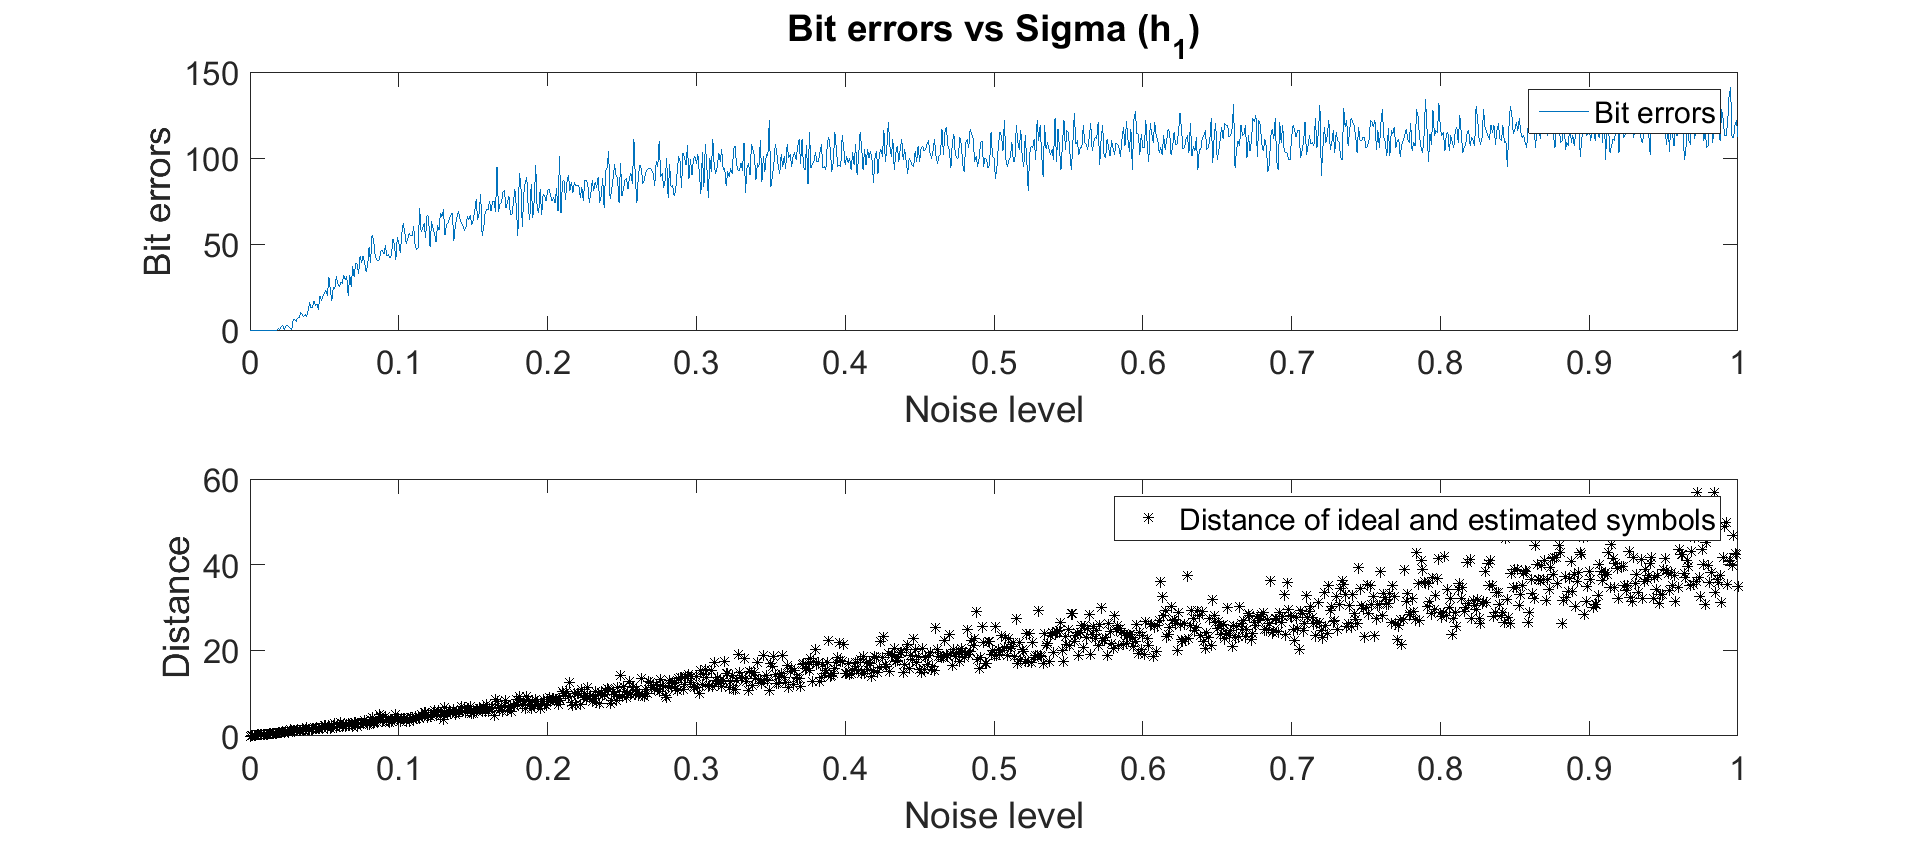
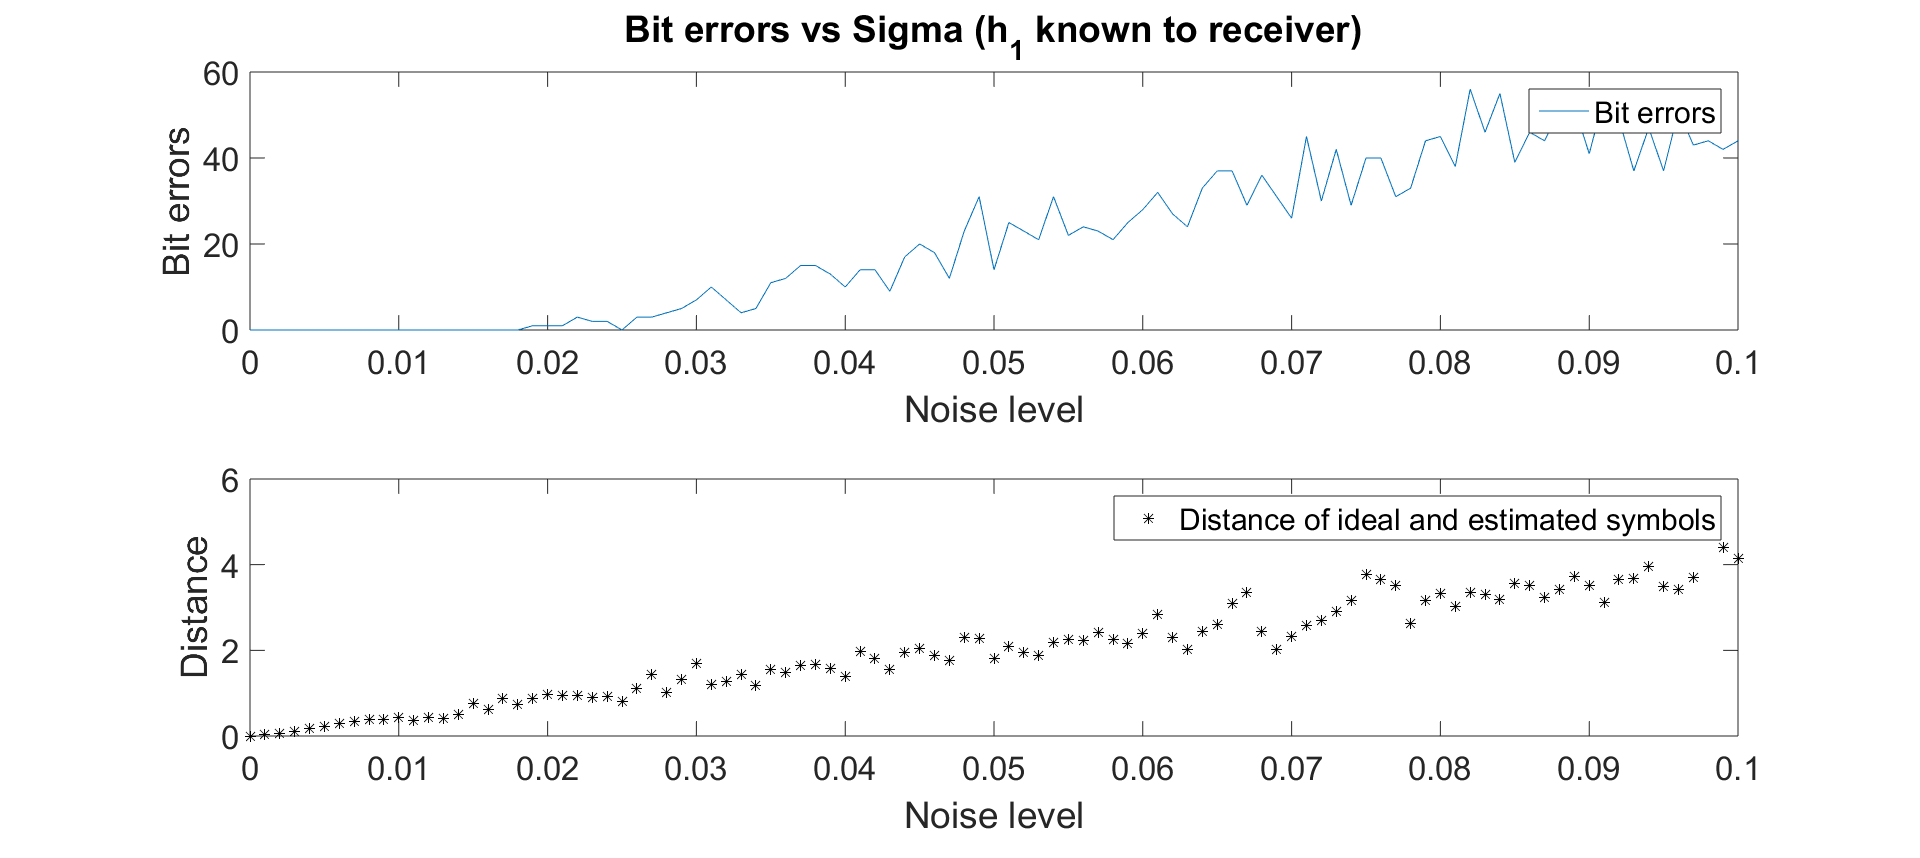
added a lot, pics, code etc

diff --git a/tester.m b/tester.m
@@ -7,21 +7,23 @@ s_maxTOT=zeros(1,1001);
 counter = 0;
 N=128;
 
+fall=1;
 sigma=0;
 
 %Test area
 
+% for sigma = 0:0.001:1;
 
 counter = counter +1; 
-fall=3;
+
 
 [z,z_p,bits,symbols]=transmitter(fall);
 
-[y_hat,y_hat_p,h,sigma2] = channel(z,z_p,2,sigma);
+[y_hat,y_hat_p,h,sigma2] = channel(z,z_p,1,sigma);
 
 [b_hat,s_hat] = receiver(y_hat,y_hat_p,h,fall);
 
-% s_max=max(abs(symbols-s_hat)); %This is a good measure, should be included 
+s_max=max(abs(symbols-s_hat)); %This is a good measure, should be included 
                                %the report imo 
 
 %scatterplot(s_hat)
@@ -32,26 +34,27 @@ for i=1:2*N
         BitErrors=BitErrors+1;
     end
 end
-%errorbits=abs(bits-b_hat)
+
 ErrorsPerSigma(counter) = BitErrors;
-%s_maxTOT(counter)=s_max;
+s_maxTOT(counter)=s_max;
+% end
 
-BitErrors
 
-%%
-sigma = 0:0.001:1;
+% sigma = 0:0.001:1;
 % subplot(2,1,1)
-plot(sigma,ErrorsPerSigma)
-legend('Bit errors')
-title('Bit errors vs Sigma (h_2)')
-xlabel('Noise level')
-ylabel('Bit errors')
-set(gca, 'fontsize',20)
+% plot(sigma,ErrorsPerSigma)
+% legend('Bit errors')
+% title('Bit errors vs Sigma (h_1 known to receiver)')
+% xlabel('Noise level')
+% ylabel('Bit errors')
+% xlim([0 0.1])
+% set(gca, 'fontsize',20)
 % subplot(2,1,2)
 % plot(sigma,s_maxTOT,'k*')
 % legend('Distance of ideal and estimated symbols')
 % xlabel('Noise level')
 % ylabel('Distance')
+% xlim([0 0.1])
 % set(gca, 'fontsize',20)
 
 
@@ -61,21 +64,4 @@ disp(['The total number of bit errors are: ' int2str(BitErrors) char(10)...
     'And the maximum differance between transmitted and received symbol is: ' num2str(s_max) char(10)])
 
 
-
-
-%%
-sigma = 0:0.001:1;
-subplot(2,1,1)
-plot(sigma,ErrorsPerSigma)
-legend('Bit errors')
-title('Bit errors vs Sigma (h_2)')
-xlabel('Noise level')
-ylabel('Bit errors')
-set(gca, 'fontsize',20)
-subplot(2,1,2)
-plot(sigma,s_maxTOT,'k*')
-legend('Distance of ideal and estimated symbols')
-xlabel('Noise level')
-ylabel('Distance')
-set(gca, 'fontsize',20)
 

diff --git a/receiver.m b/receiver.m
@@ -22,7 +22,14 @@ r=fft(y_hat);
 
 H = fft(h,N); % The transfer function H(w)
 
+% scatterplot(r)
+% title('Scatterplot of r - i.e s affected by the channel')
+
 s_hat=r./(conj(H))';
+
+
+% scatterplot(s_hat)
+% title('Scatterplot of received symbols - noisy')
 
 b_hat=zeros(1,2*N);
     for n=1:N
@@ -54,17 +61,17 @@ H_estimated  = r_p./s_pilot;
 
 s_hat=r./(H_estimated);
 
+
+
 % H_estimated=zeros(N,1);
 % 
 % for i=1:8
 %     H_estimated([(i-1)*16+1:(i-1)*16+16])=r([(i-1)*16+1:(i-1)*16+16])./pilot;
 %     pilot=r([(i)*16+1:(i)*16+16])./H_estimated([(i-1)*16+1:(i-1)*16+16]);
 % end
-figure(3)
-freqz(H_estimated)
-
-
-
+% figure(3)
+% freqz(H_estimated)
+% title('Estimated H_1(w) - noisy channel')
 
 b_hat=zeros(1,2*N);
 

diff --git a/channel.m b/channel.m
@@ -1,7 +1,8 @@
 function [y_hat,y_hat_p,h,sigma] = channel(z,z_p,mode,sigma)
 
 %% Filter through channel impulse response and add noise
-sigma; %Noise level
+sigma=0.02; %Noise level
+
 N=128;
 y_hat_p=[];
     if mode==1
@@ -24,13 +25,15 @@ y_hat_p=[];
 y_len = length(z)+length(h)-1;
 
 w = 1/sqrt(2)*sigma*(randn(y_len,1) + 1i*randn(y_len,1)); %Additive noise
+w2 = 1/sqrt(2)*sigma*(randn(y_len,1) + 1i*randn(y_len,1));
 
 y_hat=conv(z,h)+w;
 if length(z_p)>1;
-    y_hat_p=conv(z_p,h)+w;
+    y_hat_p=conv(z_p,h)+w2;
 end
-figure(1)
-freqz(fft(h,N))
+% figure(1)
+% freqz(fft(h,N))
+% title('Actual H_1(w)')
 % figure(2)
 % plot(real(y_hat))
 % title('Transmitted signal passed through h')

diff --git a/transmitter.m b/transmitter.m
@@ -28,7 +28,9 @@ GroupBits = buffer(bits,m)'; %Here we group the bits 2 and 2.
 codeword = bi2de(GroupBits,'left-msb')+1; %Assign each "group" to a decimal.
 
 symbols = QPSK(codeword); %Each number is assigned to our constellation.
-
+figure(5)
+scatterplot(symbols)
+title('Scatterplot of transmitted symbols')
 if fall == 3
 OFDM_p=ifft(s_pilot);
 Prefix_s=OFDM_p;
@@ -42,7 +44,7 @@ Prefix = OFDM((end-M+1):end); %Cyclic prefix: Gimics a infinite time-signal
                               %and works as a guard intervall.
                               
 z = [Prefix;OFDM]; % adds the prefix to the signal.
-length(z)
+
 % figure(1)
 % plot(real(z))
 % title('Transmitted signal')
